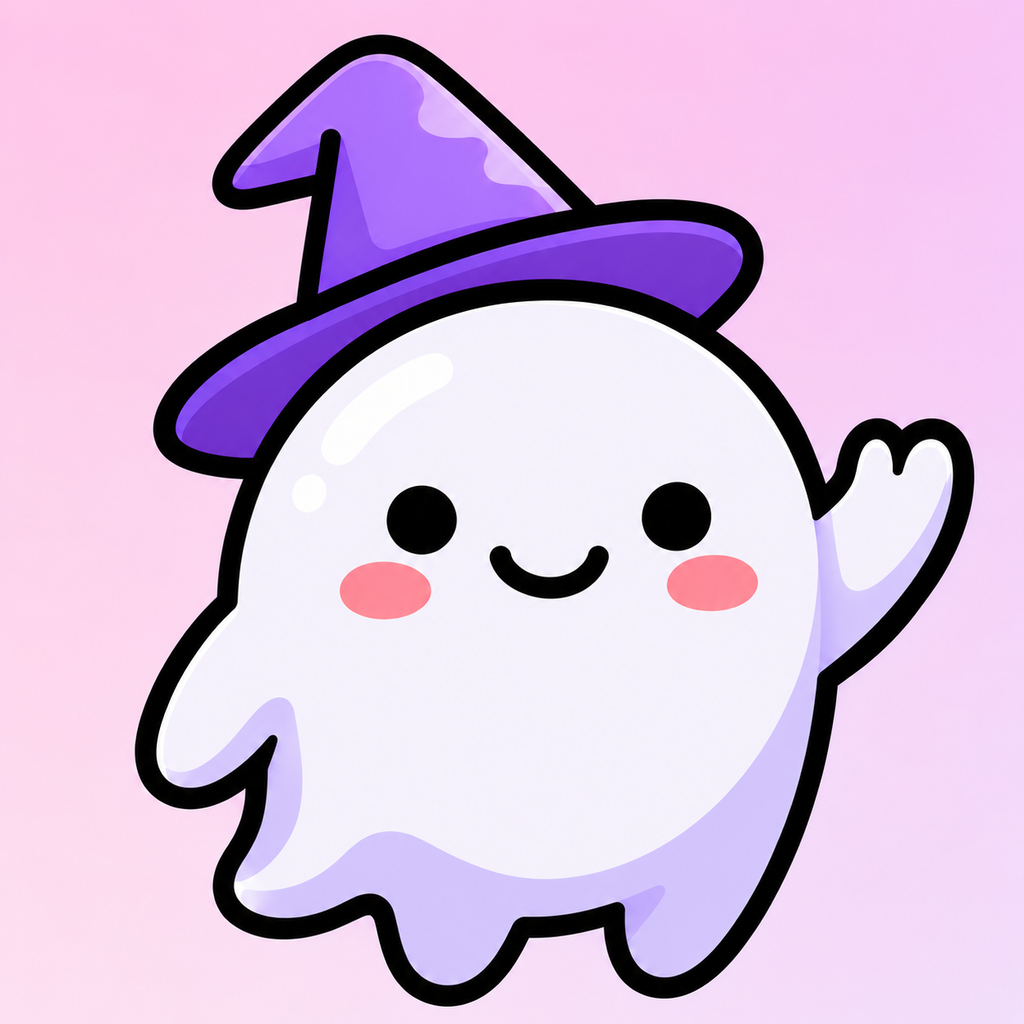
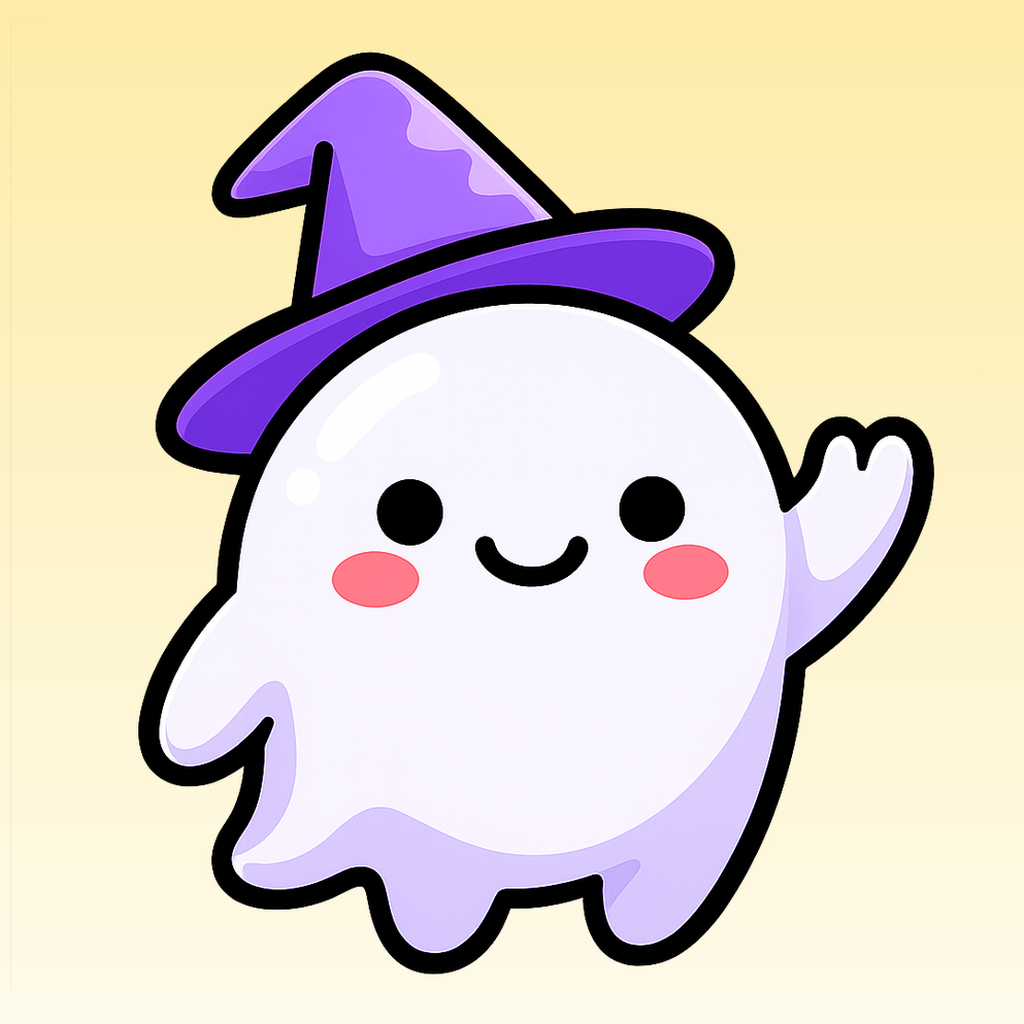
feat: update visual theme to warm color palette and add new branding assets

diff --git a/src/styles/globals.css b/src/styles/globals.css
@@ -3,24 +3,28 @@
 @theme {
   --font-sans: 'Outfit', ui-sans-serif, system-ui, sans-serif;
 
-  --color-background: #fdf9ff;
-  --color-foreground: #1c1625;
-  --color-card: #ffffff;
-  --color-card-foreground: #1c1625;
+  --color-background: #fffbeb;
+  --color-foreground: #171717;
+  --color-card: #fef3c7;
+  --color-card-foreground: #171717;
   --color-primary: #7c3aed;
   --color-primary-foreground: #ffffff;
-  --color-secondary: #f5f2fc;
-  --color-secondary-foreground: #756e82;
-  --color-muted: #f5f2fc;
-  --color-muted-foreground: #756e82;
-  --color-muted-faint: #a89fb5;
+  --color-secondary: #fef3c7;
+  --color-secondary-foreground: #57534e;
+  --color-muted: #fef3c7;
+  --color-muted-foreground: #57534e;
+  --color-muted-faint: #a8a29e;
   --color-accent: rgba(124, 58, 237, 0.08);
   --color-accent-foreground: #7c3aed;
-  --color-border: #e8e1f0;
-  --color-border-strong: rgba(28, 22, 37, 0.14);
+  --color-border: #e7e0d1;
+  --color-border-strong: rgba(23, 23, 23, 0.14);
   --color-destructive: #e64457;
   --color-positive: #059669;
   --color-warning: #d97706;
+
+  --color-surface: #fffbeb;
+  --color-surface-muted: #fef3c7;
+  --color-surface-glass: rgba(255, 251, 235, 0.7);
 
   --color-brand-50: #f7f0ff;
   --color-brand-100: #ecdcff;
@@ -85,9 +89,9 @@ body {
   background: transparent;
 }
 ::-webkit-scrollbar-thumb {
-  background: rgba(28, 22, 37, 0.12);
+  background: rgba(23, 23, 23, 0.12);
   border-radius: 3px;
 }
 ::-webkit-scrollbar-thumb:hover {
-  background: rgba(28, 22, 37, 0.22);
+  background: rgba(23, 23, 23, 0.22);
 }
